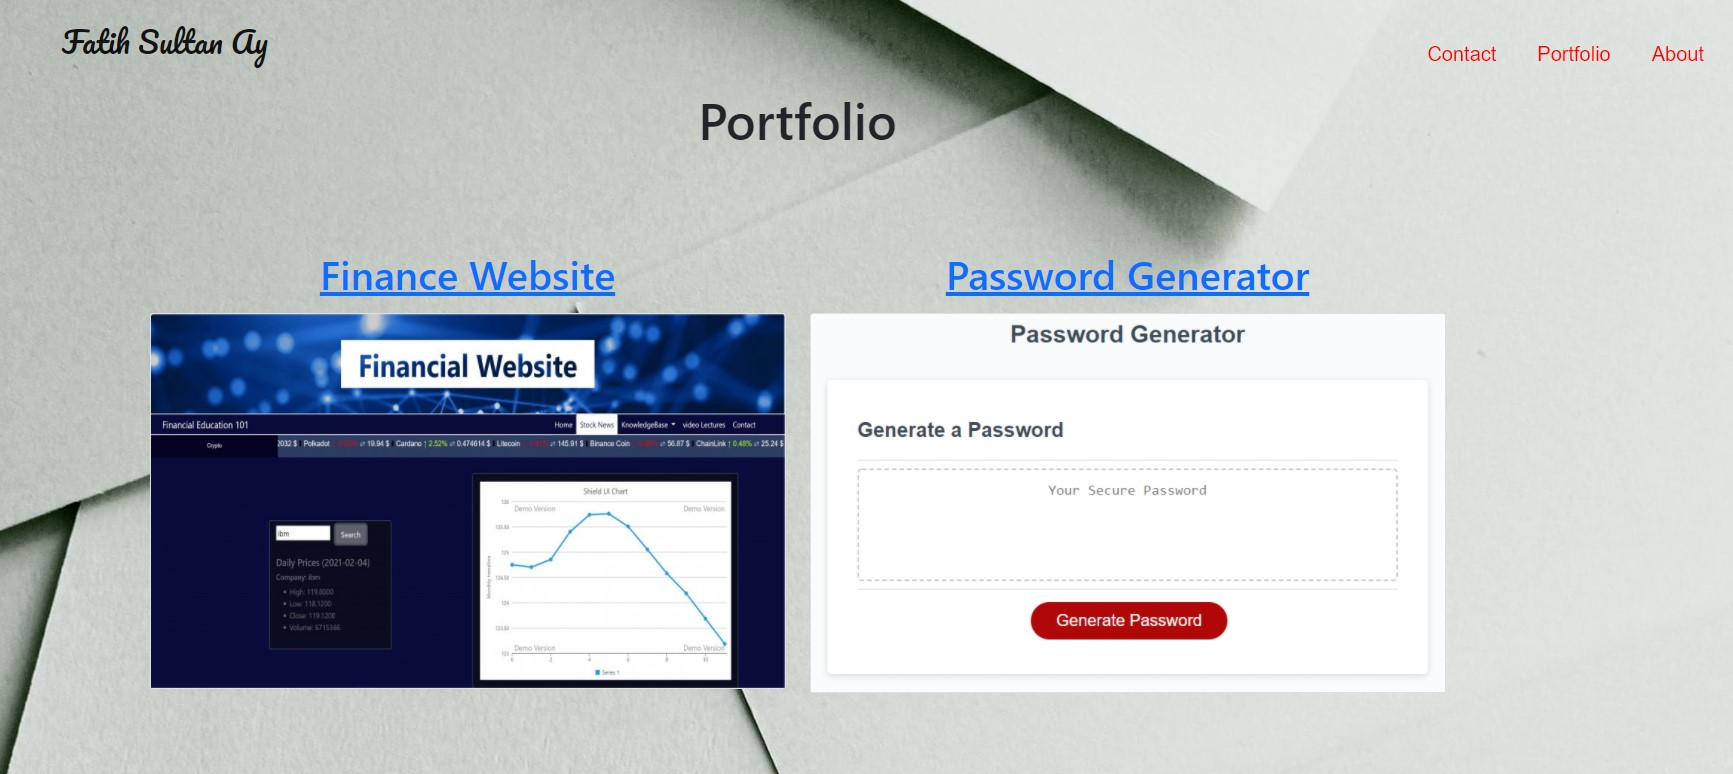
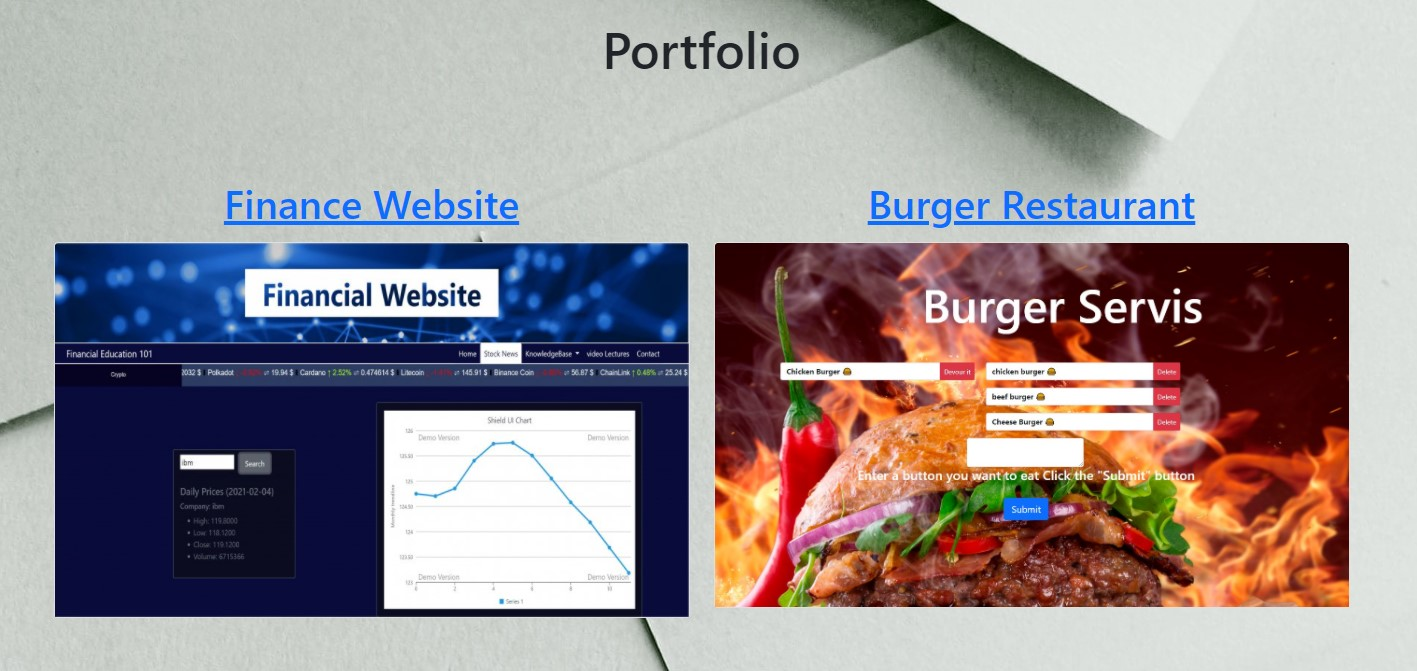
readme updated

diff --git a/Portfolio.html b/Portfolio.html
@@ -83,7 +83,7 @@
                     <h1 style="text-align: center; margin-bottom: 15px;"> Burger Restaurant </h1>
                 </a>
                 <div class="card">
-                    <a target="_blank" href="https://github.com/fatihay53/burger-app"> <img
+                    <a target="_blank" href="https://burger-eat-application.herokuapp.com/"> <img
                             src="assets/images/burgerapp.jpg" class="card-img-top" alt="Photo">
                     </a>
                 </div>
@@ -95,22 +95,22 @@
          
 
             <div class="col-6">
-                <a href="https://fatihay53.github.io/Work-Day-Scheduler/">
+                <a href="https://github.com/fatihay53/Work-Day-Scheduler">
                     <h1 style="text-align: center; margin-bottom: 15px;"> Work Day Scheduler </h1>
                 </a>
                 <div class="card">
-                    <a target="_blank" href="https://github.com/fatihay53/Work-Day-Scheduler"> <img
+                    <a target="_blank" href="https://fatihay53.github.io/Work-Day-Scheduler/"> <img
                             src="assets/images/Work-Day-Scheduler.jpg" class="card-img-top" alt="Photo">
                     </a>
                 </div>
 
             </div>
             <div class="col-6">
-                <a href="https://fatihay53.github.io/Password-Generator/">
+                <a href="https://github.com/fatihay53/Password-Generator">
                     <h1 style="text-align: center; margin-bottom: 15px;"> Password Generator </h1>
                 </a>
                 <div class="card">
-                    <a target="_blank" href="https://github.com/fatihay53/Password-Generator"> <img
+                    <a target="_blank" href="https://fatihay53.github.io/Password-Generator/"> <img
                             src="assets/images/password-generator.png" class="card-img-top" alt="Photo">
                     </a>
                 </div>

diff --git a/README.md b/README.md
@@ -1,77 +1,53 @@
-## Updated Portfolio
-* Added an updated portfolio featuring Project 1 and two exemplary homework assignments.
 
-* Added an updated GitHub profile with pinned repositories featuring Project 1 and two exemplary assignments.
-
-* Added an updated resume
-
-* Added an updated LinkedIn profile
-
-Portfolio includes :  
-
-1. Display your full name, email, and phone number
-
-2. Have links to  GitHub profile and LinkedIn profile
-
-3. Have a link to a downloadable PDF of your resume
-
-4. Display at least 3 examples of student work from either deployed projects or homeworks:
-
-   1- Password Generator
-   2-Weather Dashboard
-   3-Work Day Scheduler
-   4-Porject 1 (finance website)
-
-   For each project, you have the following:
-
-   * Project title
-
-    * Link to the deployed version
-
-    * Link to the GitHub repository
-
-    * Screenshot of the deployed application
-
-5. Have a polished, mobile-responsive user interface.
-
-## Updated GitHub Profile
+<h1 align="center", margin="5%">                      👨🏻💻  Portfolio 👨🏻💻 </h1>
 
 
 
-Updated GitHub added these infomations:
+<h1> Table of Contents </h1>
 
-1. Professional profile picture 
+* [Demo](#Demo)
 
-2. Biography
-
-3. Current location
-
-4. Email address
-
-5. Link deployed portfolio
-
-6. At least 2 pinned repositories:
-
-   * Navigate to profile.
-
-   * Click "Customize your pins"
-
-   * Click the checkboxes for your project and 2-3 homework assignments that you would like to share
-
-7. Follow a few of your classmates. They are the beginning of your professional network and being a developer is as much about being a part of the community as it is writing code.
+* [Questions](#Questions)
 
 
-![GitHub Logo](/assets/photo/about.jpg)
+## Demo:
+
+<p align="center">
+<img  src="./assets/photo/about.jpg" width="50%" height="50%">
+</p>
+
+<p align="center">
+<img src="./assets/photo/contact.jpg" width="50%" height="50%">
+</p>
+
+<p align="center">
+<img src="./assets/photo/portfolio1.jpg" width="50%" height="50%">
+</p>
+<p align="center">
+<img src="./assets/photo/portfolio2.jpg" width="50%" height="50%">
+</p>
 
 
-![GitHub Logo](/assets/photo/contact.jpg)
+</h1>
 
-![GitHub Logo](/assets/photo/portfolio.jpg)
+## Questions:
+   
+<h1 align="center">
 
-# Links
+     For questions ❓ 
 
-Github repository: https://github.com/fatihay53/Portfolio
+                              
+[![github](https://cloud.githubusercontent.com/assets/17016297/18839843/0e06a67a-83d2-11e6-993a-b35a182500e0.png)][1]
+[![linkedin](https://cloud.githubusercontent.com/assets/17016297/18839848/0fc7e74e-83d2-11e6-8c6a-277fc9d6e067.png)][2]
+[![Gmail](https://user-images.githubusercontent.com/77207167/111044783-9e02d780-8418-11eb-80c7-65c663549a9e.png)][3] 
 
-Github published: https://fatihay53.github.io/Portfolio/
+
+[1]: https://github.com/fatihay53
+[2]: https://www.linkedin.com/in/fatih-sultan-ay-211689181
+[3]: mailto:f.sultanay@gmail.com
+
+
+</h1>
+
 
 
